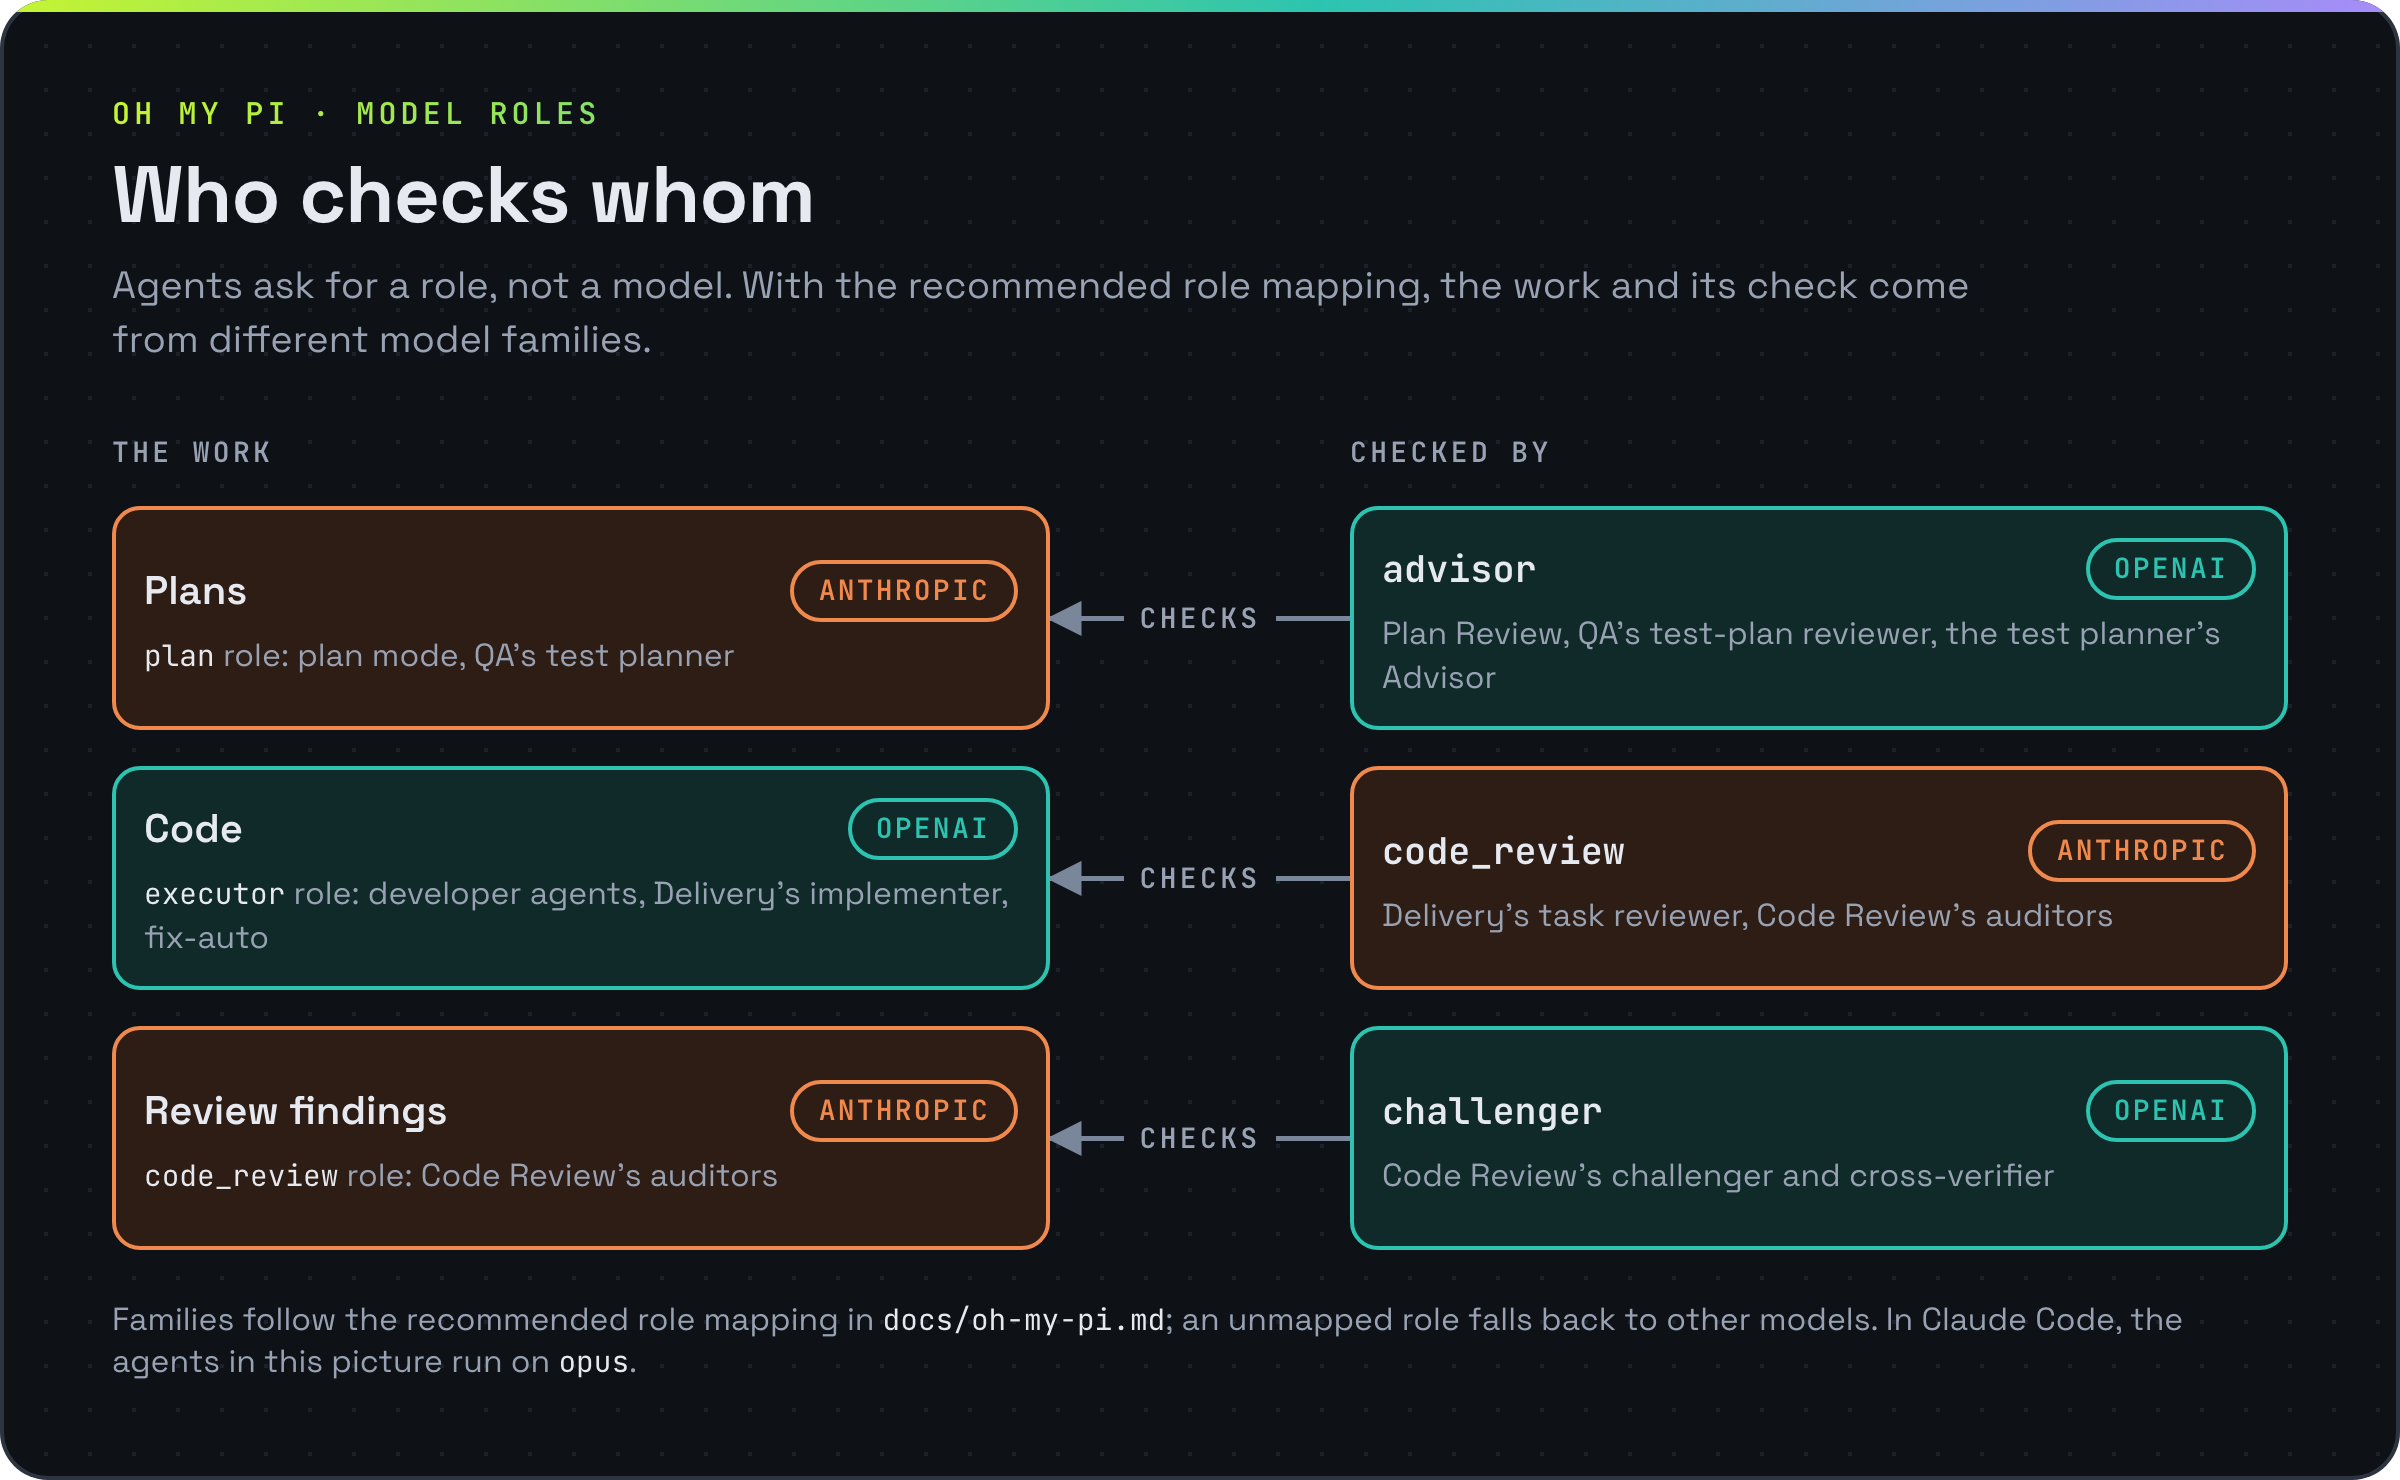
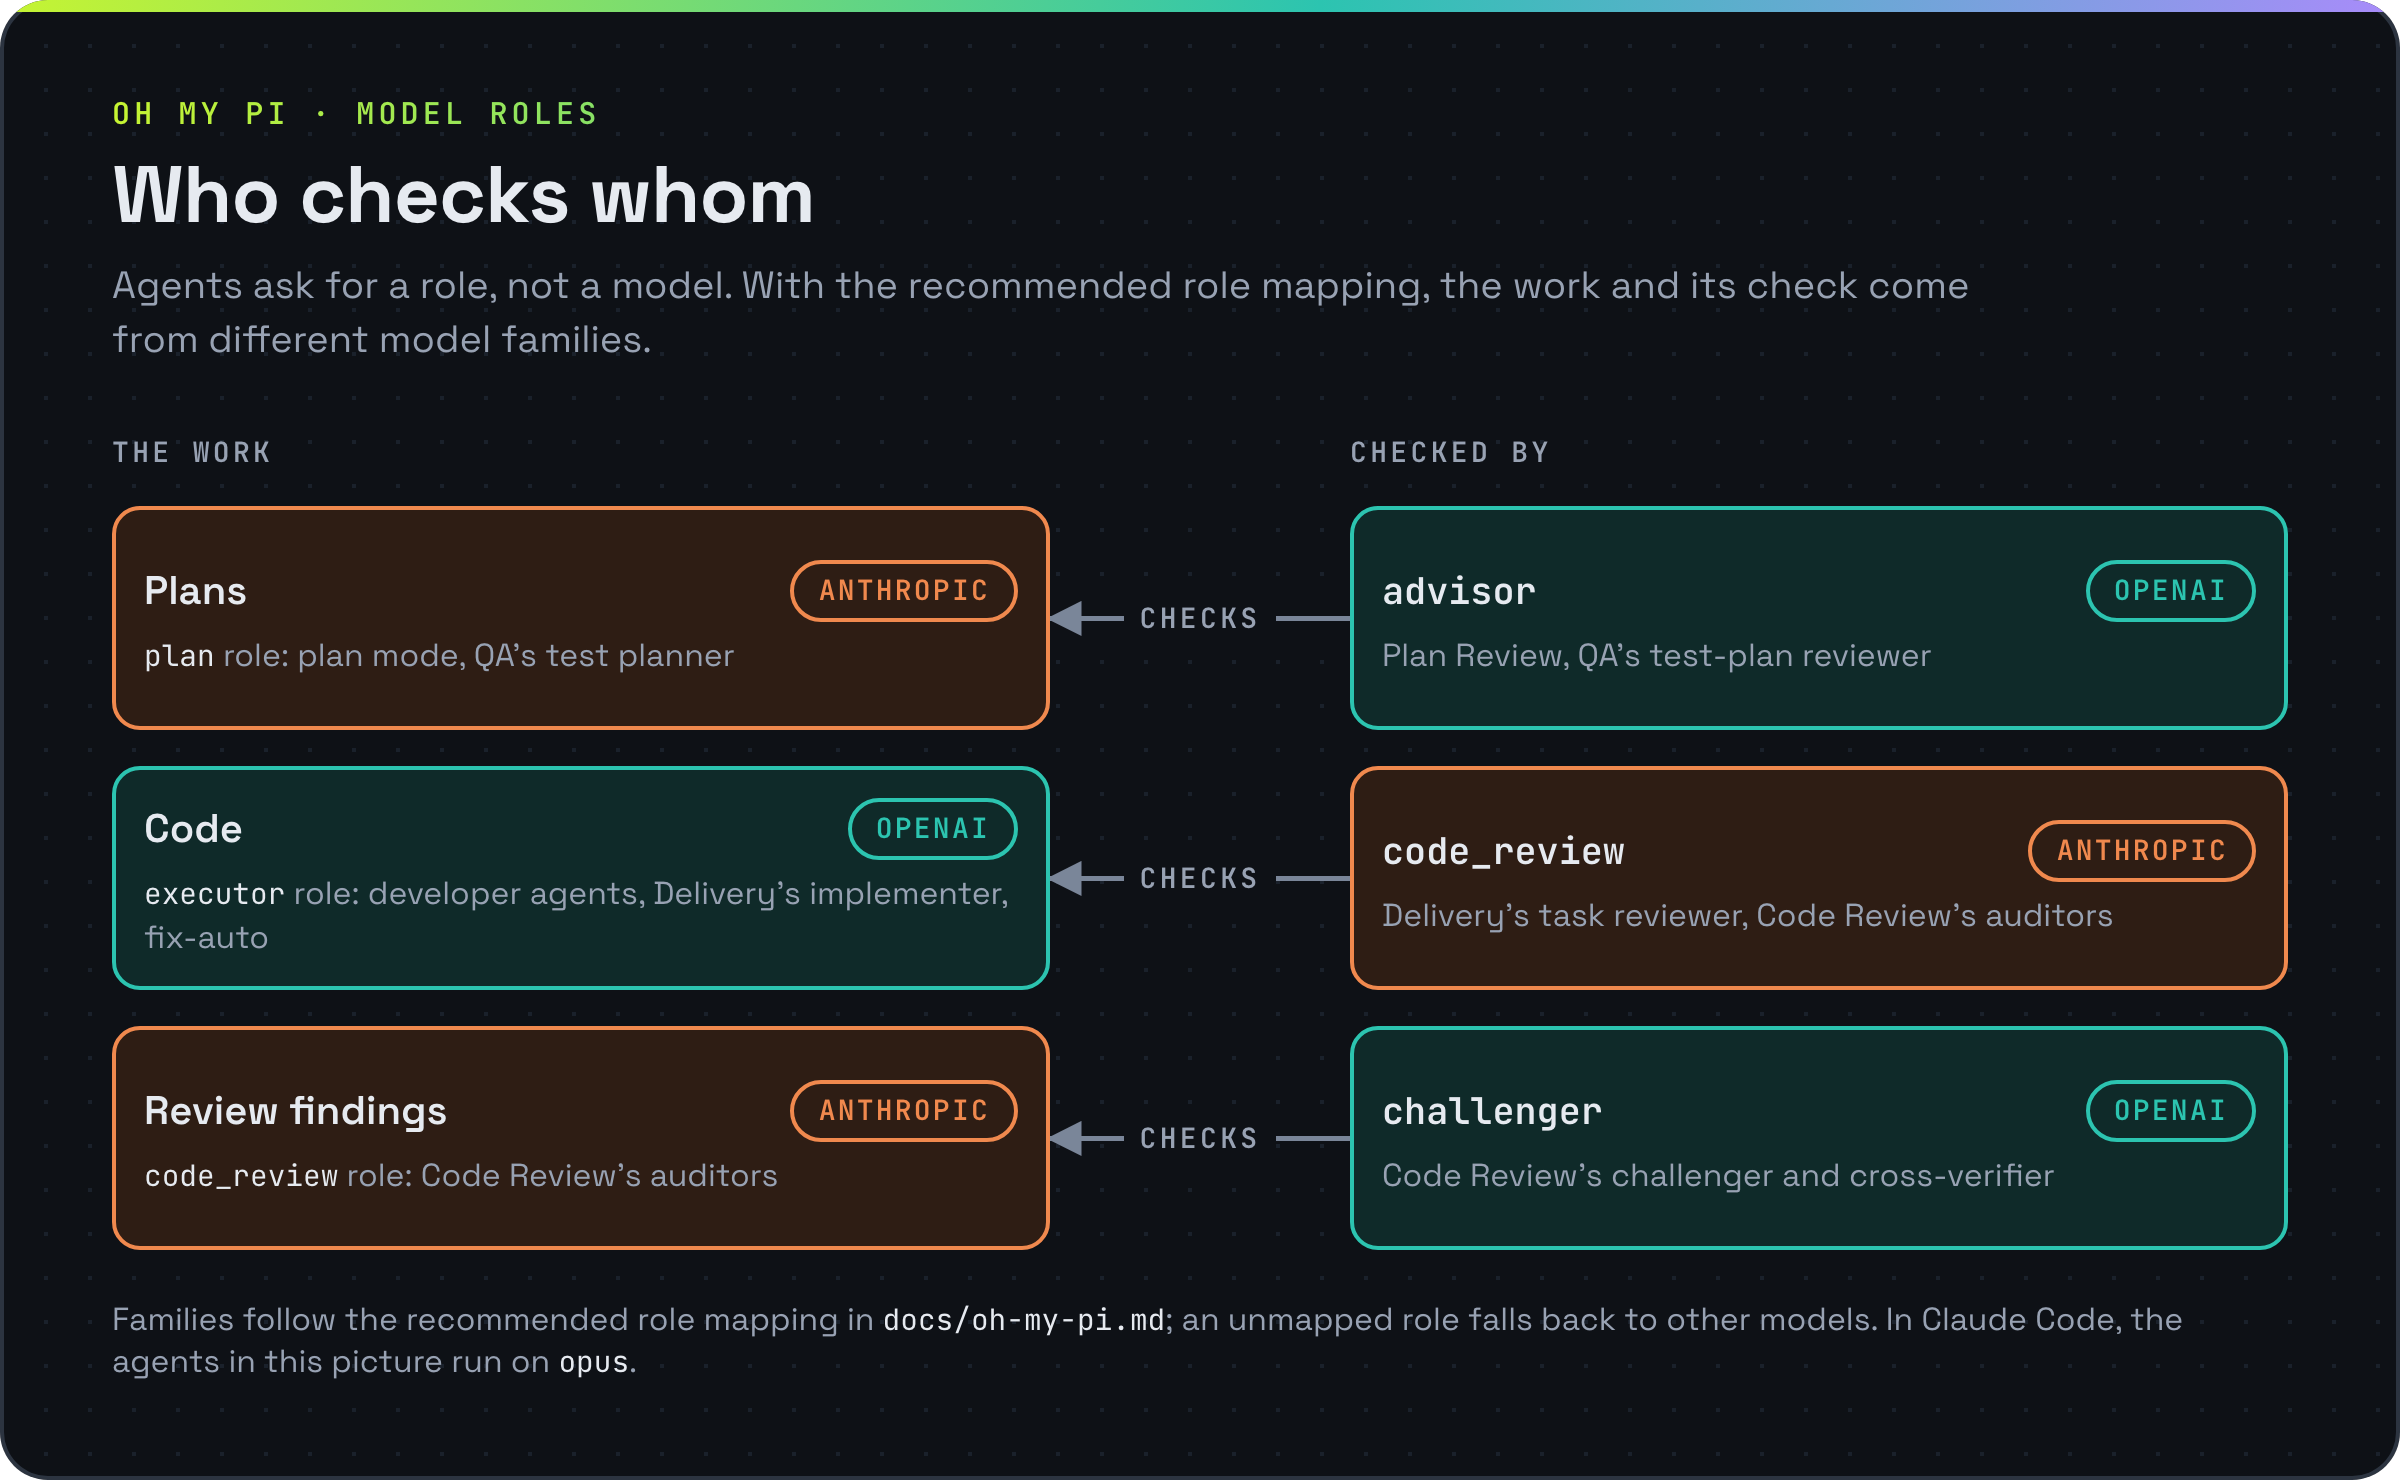
docs: drop the test planner's Advisor from the cross-model checks diagram
Delivery-Plan: docs/plans/2026-11-16-qa-test-planner-without-advisor.md
Delivery-Task: 2
Delivery-Task-Title: Drop the test planner's Advisor from the cross-model checks diagram
(cherry picked from commit 6878ad59bf5f0a88dbc7d64d507fa93d785ef0dc)

Changed region(s): [[0.5625, 0.373, 0.9375, 0.4662]]

diff --git a/docs/assets/src/cross-model-checks.html b/docs/assets/src/cross-model-checks.html
@@ -25,7 +25,7 @@
       <p class="head">The work</p><span></span><p class="head">Checked by</p>
       <div class="box anth" id="w-1"><div class="top"><b>Plans</b><span class="chip anth">Anthropic</span></div><small><code>plan</code> role: plan mode, QA's test planner</small></div>
       <span class="verb">checks</span>
-      <div class="box oai" id="c-1"><div class="top"><b><code>advisor</code></b><span class="chip oai">OpenAI</span></div><small>Plan Review, QA's test-plan reviewer, the test planner's Advisor</small></div>
+      <div class="box oai" id="c-1"><div class="top"><b><code>advisor</code></b><span class="chip oai">OpenAI</span></div><small>Plan Review, QA's test-plan reviewer</small></div>
       <div class="box oai" id="w-2"><div class="top"><b>Code</b><span class="chip oai">OpenAI</span></div><small><code>executor</code> role: developer agents, Delivery's implementer, fix-auto</small></div>
       <span class="verb">checks</span>
       <div class="box anth" id="c-2"><div class="top"><b><code>code_review</code></b><span class="chip anth">Anthropic</span></div><small>Delivery's task reviewer, Code Review's auditors</small></div>
